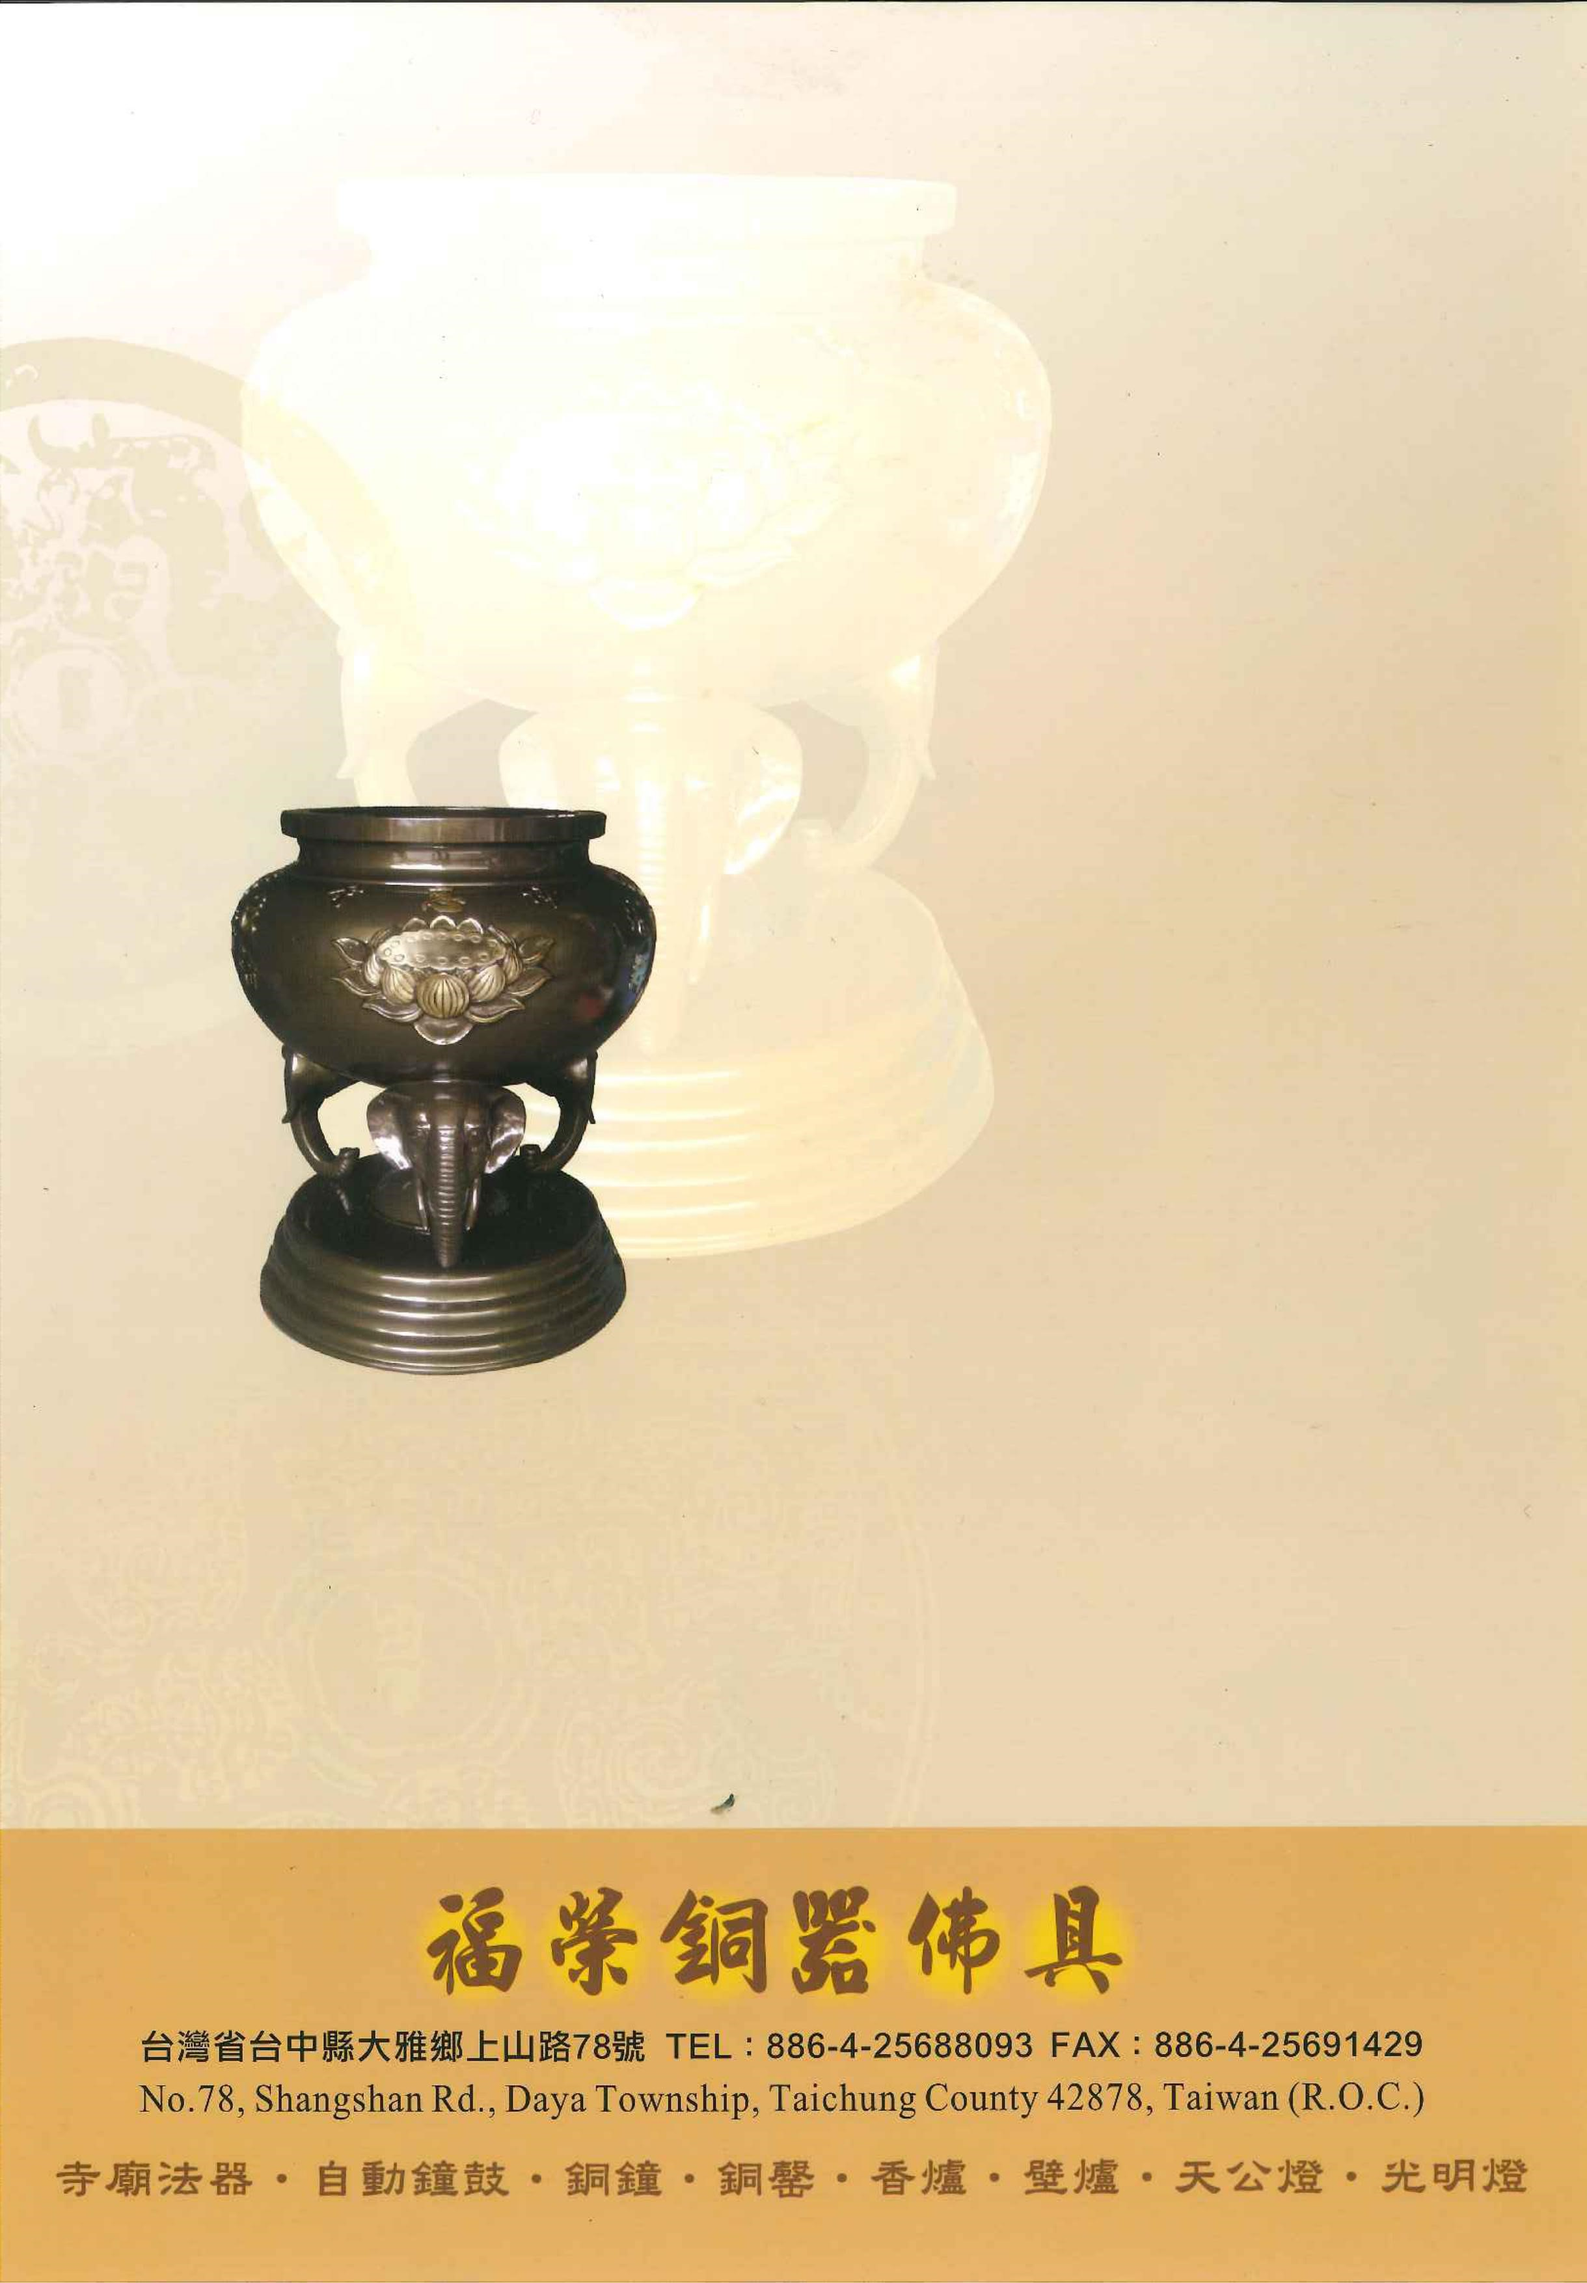
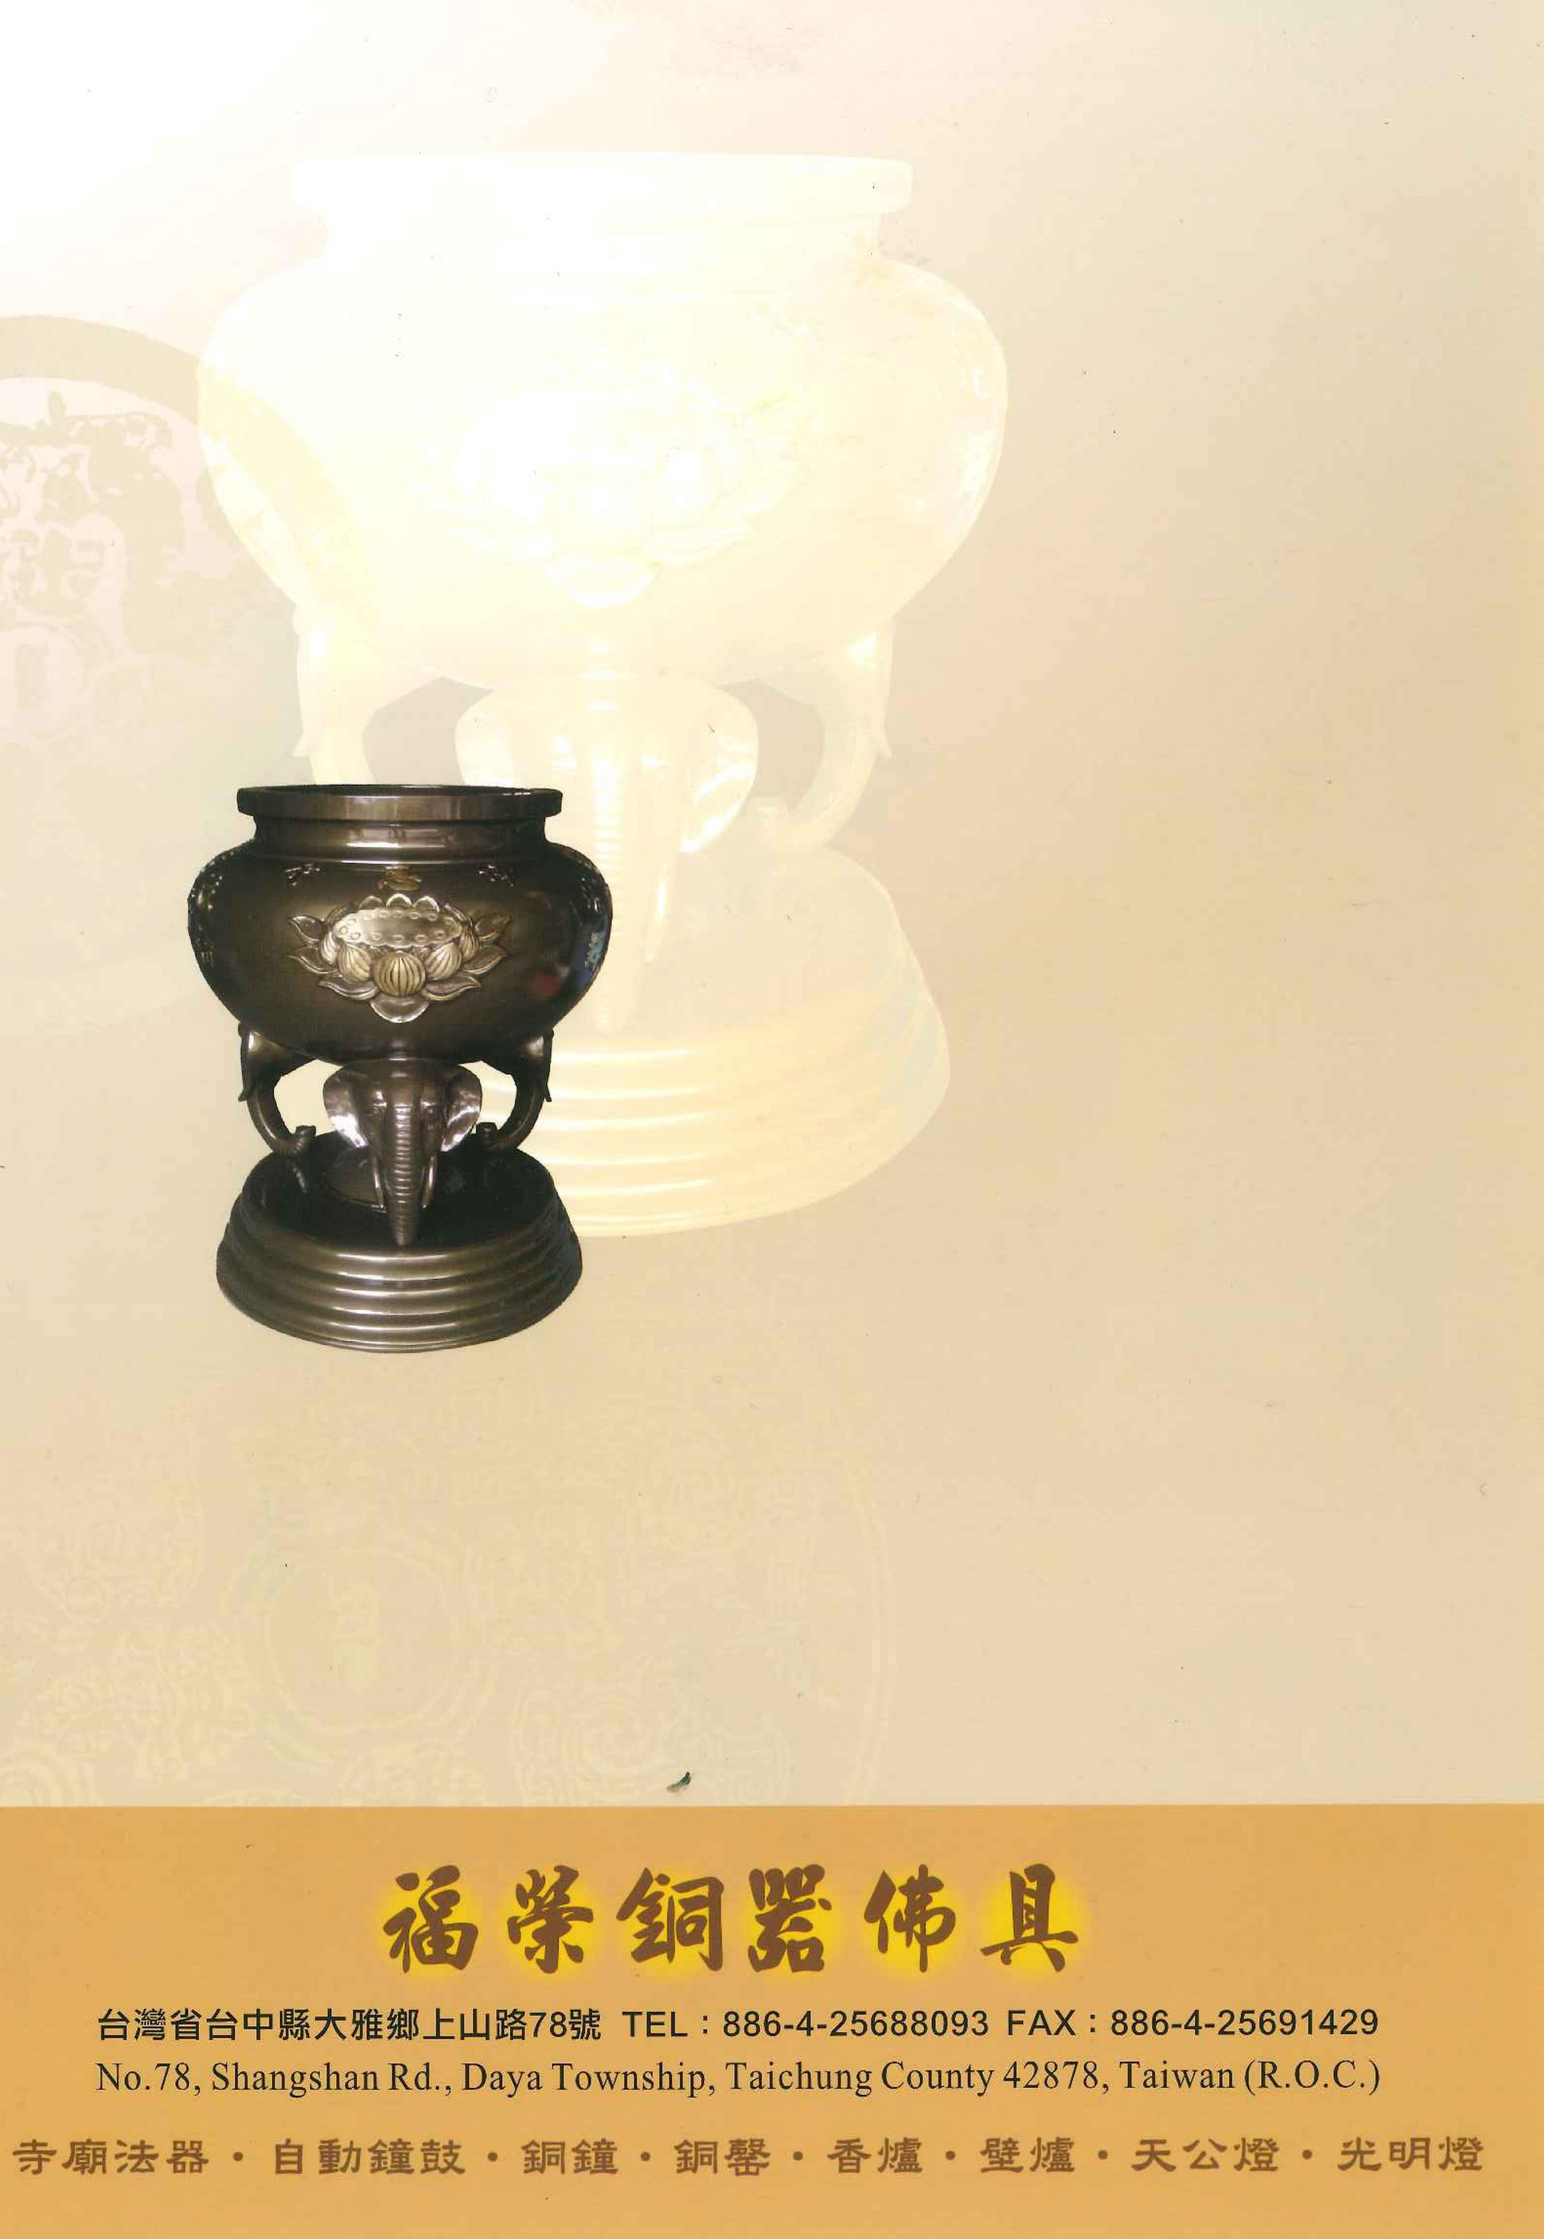
s

diff --git a/index.html b/index.html
@@ -62,9 +62,16 @@ body,h1,h2,h3,h4,h5,h6,.w3-wide {font-family: "Montserrat", sans-serif;}
   <div class="w3-row ">
     <div class="w3-col l12 s12">
       <div class="w3-container">
-    <img src="./image/0001.jpg" style="width:100%">
+    <img src="./image/0002.jpg" style="width:100%">
               </div>
               </div>
+    <div class="w3-row ">
+                <div class="w3-col l12 s12">
+                  <div class="w3-container">
+                <img src="./image/0001.jpg" style="width:100%">
+                          </div>
+                          </div>
+
 
 
 
